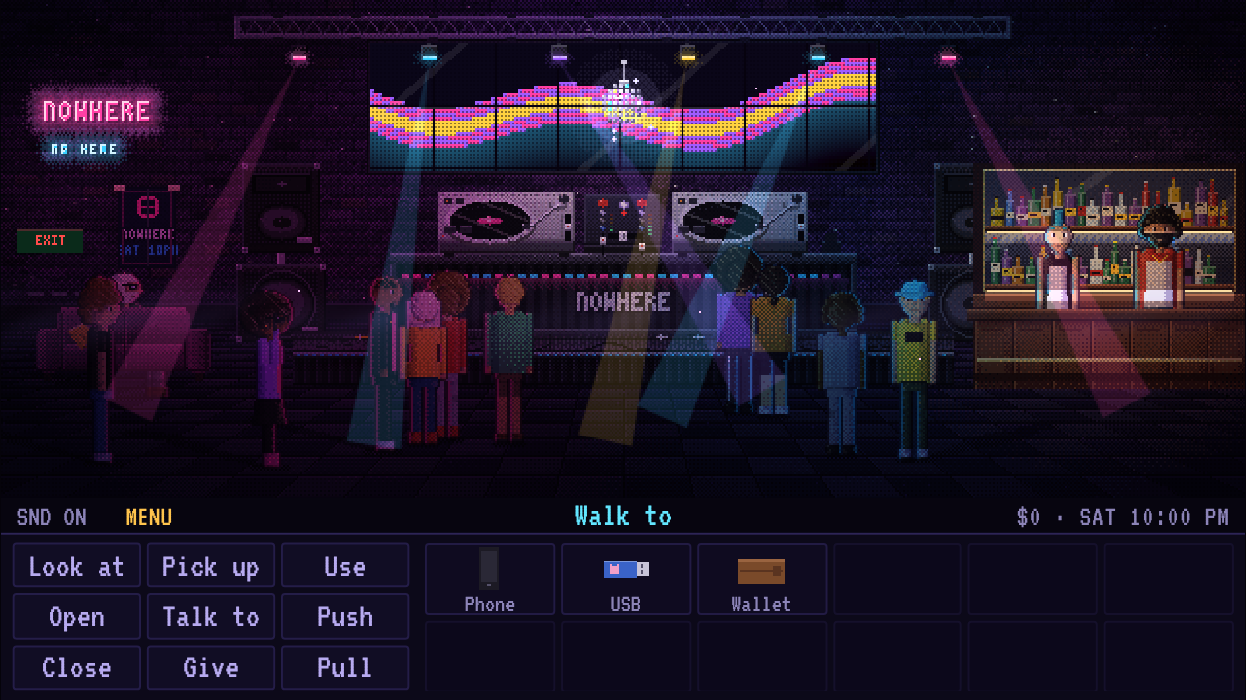
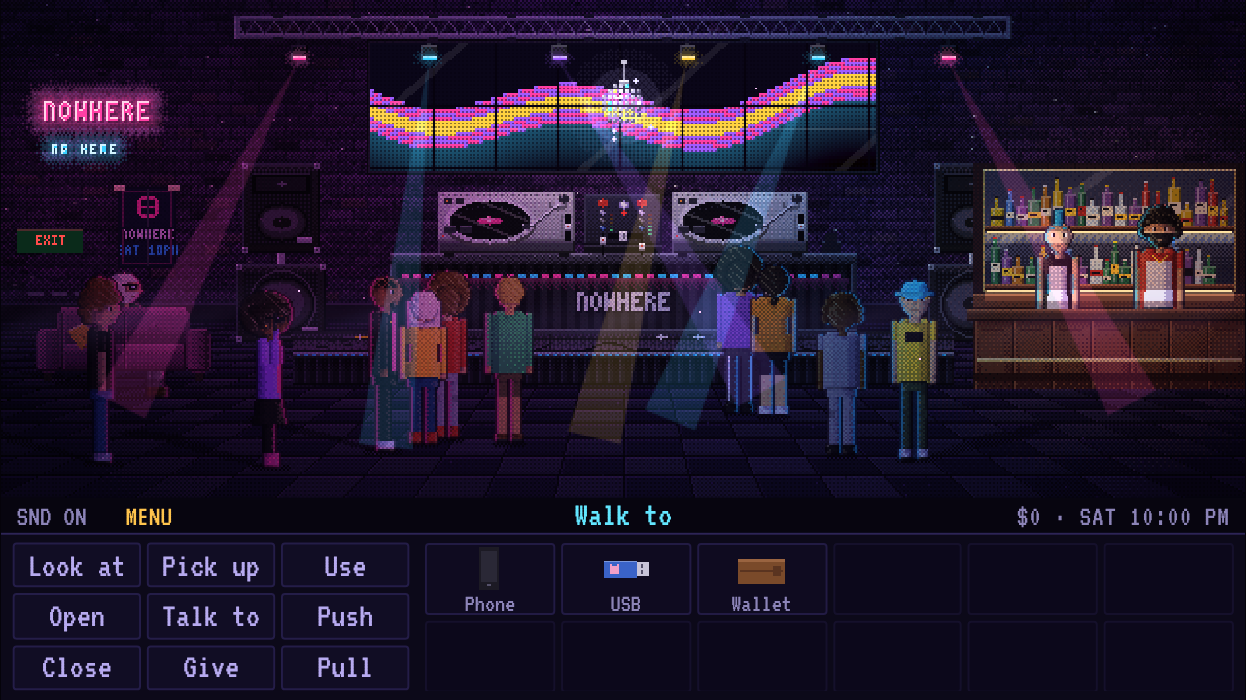
WIP: levels and mini-games in progress (auto-checkpoint)
Claude-Session: https://claude.ai/code/session_015TJHx81MSgU7ZAACmyJeks

diff --git a/src/acts/act1/72_nowhere.js b/src/acts/act1/72_nowhere.js
@@ -54,8 +54,9 @@ function paintNowhere(c, S) {
 function lightNowhere(S) {
   const good = !!S.f.a1_setGood;
   return {
-    ambient: "#1e1236",
+    ambient: "#34265a",
     lights: [
+      { x: 320, y: 236, r: 280, color: "#9a80e0", steps: 3, power: 0.45 },   // booth glow on the floor: faces read in the dark
       { x: 190, y: 120, r: 210, color: "#ff3fa4", steps: 4, sy: 1.2, power: good ? 0.9 : 0.6, rim: true },
       { x: 450, y: 120, r: 210, color: "#39d0ff", steps: 4, sy: 1.2, power: good ? 0.9 : 0.6, rim: true },
       { x: 320, y: 60, r: 170, color: "#a05cff", steps: 3, power: 0.6 },

diff --git a/src/acts/act1/70_nowhere_door.js b/src/acts/act1/70_nowhere_door.js
@@ -76,9 +76,10 @@ function paintDoor(c, S) {
 
 function lightDoor(S) {
   return {
-    ambient: "#2e2450",
+    ambient: "#40366a",
     lights: [
       { x: 356, y: 56, r: 190, color: "#ff3fa4", steps: 4, sy: 1.1, rim: true },
+      { x: 110, y: 210, r: 170, color: "#8a7ac8", steps: 3, power: 0.5 },   // spill from the street, so the line reads
       { x: 356, y: 64, r: 150, color: "#ff2a2a", steps: 3, power: 0.7 },
       { x: 150, y: 40, r: 190, color: "#6a5ab8", steps: 3, power: 0.5 },
       { x: 560, y: 50, r: 170, color: "#39d0ff", steps: 3, power: 0.5, rim: true },
